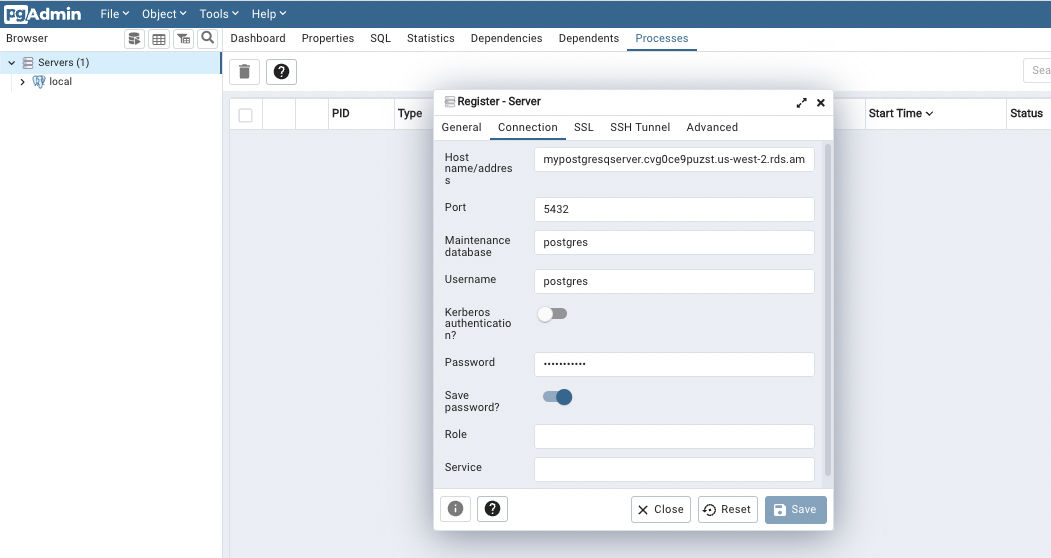
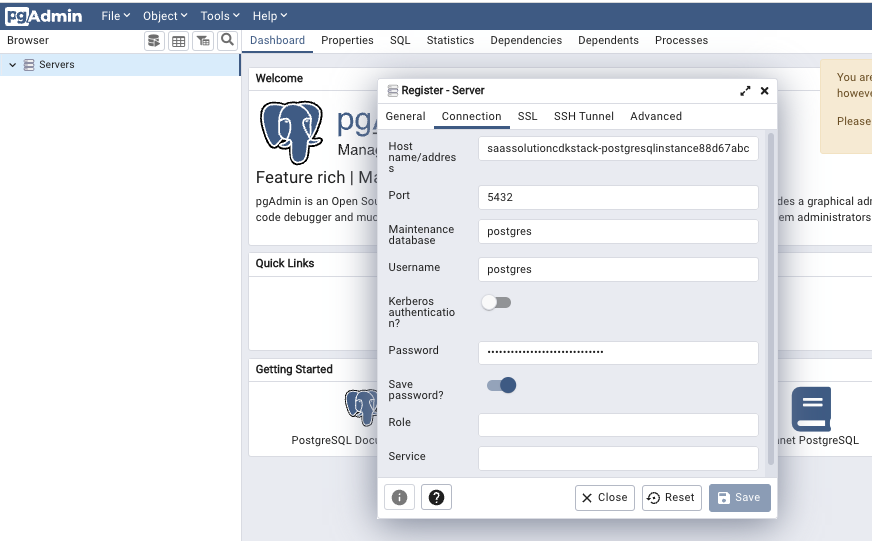
update to CDK for the solution

Changed region(s): [[0.0, 0.0, 1.0, 1.0], [0.2167, 0.207, 0.2477, 0.2366]]

diff --git a/setup/saas-solution-cdk/saas_solution_cdk/saas_solution_cdk_stack.py b/setup/saas-solution-cdk/saas_solution_cdk/saas_solution_cdk_stack.py
@@ -4,8 +4,12 @@ from aws_cdk import (
     aws_rds,
     aws_iam,
     aws_ec2,
-    RemovalPolicy
+    aws_eks,
+    RemovalPolicy, SecretValue,
+    aws_lambda,
+    aws_apigateway as apigw
 )
+
 from constructs import Construct
 cidr="10.10.0.0/16"
 key_name = "my-key-pair"
@@ -19,7 +23,7 @@ class SaasSolutionCdkStack(Stack):
         self.vpc = aws_ec2.Vpc(self, "VPC",
                            max_azs=2,
                            ip_addresses=aws_ec2.IpAddresses.cidr(cidr),
-                           nat_gateways=1,
+                           nat_gateways=2,
                            enable_dns_hostnames=True,
                            enable_dns_support=True,
                            subnet_configuration=[
@@ -33,21 +37,56 @@ class SaasSolutionCdkStack(Stack):
                                    cidr_mask=24) # could be /16 to have more instances, but this is a demo scope.
                            ]
                            )
-        # Create an IAM role for worker groups and kubernetes RBAC configuration
+        
+        postgres = aws_rds.DatabaseInstance(self, "PostgresqlInstance",
+                                database_name="tenantdb",
+                                engine=aws_rds.DatabaseInstanceEngine.postgres(version=aws_rds.PostgresEngineVersion.VER_14_5),
+                                vpc_subnets=aws_ec2.SubnetSelection(subnet_type=aws_ec2.SubnetType.PRIVATE_WITH_EGRESS),
+                                vpc=self.vpc,
+                                port=5432,
+                                removal_policy=RemovalPolicy.DESTROY,
+                                deletion_protection=False,
+                                max_allocated_storage=200,
+                                publicly_accessible=True
+                        )
+        
+             # Create an IAM role for worker groups and kubernetes RBAC configuration
         self.eks_admin_role = aws_iam.Role(self, 'eksAdmin',
                                     assumed_by=aws_iam.ServicePrincipal(service='ec2.amazonaws.com'),
                                                                           role_name='eks-cluster-role', 
                                                                           managed_policies=
                                                                                 [aws_iam.ManagedPolicy.from_aws_managed_policy_name(managed_policy_name='AdministratorAccess')])
+        self.eks_instance_profile = aws_iam.CfnInstanceProfile(self, 'instanceprofile',
+                                                      roles=[self.eks_admin_role.role_name],
+                                                      instance_profile_name='eks-cluster-role')
+                                      
+    
+                            
+
+        cluster = aws_eks.Cluster(self, 'demo-cluster',
+                                  masters_role=self.eks_admin_role,
+                                  vpc=self.vpc,
+                                  default_capacity=2,
+                                  vpc_subnets=[aws_ec2.SubnetSelection(subnet_type=aws_ec2.SubnetType.PRIVATE_WITH_EGRESS)],
+                                  version=aws_eks.KubernetesVersion.V1_24,
+                                  output_cluster_name=True
+                                  )
+
+        sm_role= aws_iam.Role(self,"SageMakerClientRole",
+                 assumed_by=aws_iam.ServicePrincipal("lambda.amazonaws.com"))
+        sm_role.add_managed_policy(aws_iam.ManagedPolicy.from_aws_managed_policy_name("service-role/AWSLambdaBasicExecutionRole"))
+        sm_role.add_managed_policy(aws_iam.ManagedPolicy.from_aws_managed_policy_name("service-role/AWSLambdaVPCAccessExecutionRole"))
+
+        base_lambda = aws_lambda.Function(self, 'SageMakerMapperLambda',
+                                       handler='lambda-handler.handler',
+                                       runtime=aws_lambda.Runtime.PYTHON_3_7,
+                                       code=aws_lambda.Code.from_asset('lambda'),
+                                       role=sm_role)
+
+        base_api = apigw.LambdaRestApi(self, 'ApiGateway',
+                                  rest_api_name='api-Churn-SM',
+                                  handler=base_lambda,
+                                  proxy=False)
         
-        self.postgres = aws_rds.DatabaseInstance(self, "PostgresqlInstance",
-                                database_name="mypostgresqserver",
-                                engine=aws_rds.DatabaseInstanceEngine.postgres(version=aws_rds.PostgresEngineVersion.VER_14_5),
-                                instance_type=aws_ec2.InstanceType.of(aws_ec2.InstanceClass.BURSTABLE2, aws_ec2.InstanceSize.SMALL),
-                                vpc_subnets=aws_ec2.SubnetSelection(subnet_type=aws_ec2.SubnetType.PRIVATE_WITH_EGRESS),
-                                vpc=self.vpc,
-                                port=5436,
-                                removal_policy=RemovalPolicy.DESTROY,
-                                deletion_protection=False,
-                                max_allocated_storage=20
-                        )
+        sagemakerProxy = base_api.root.add_resource('assessChurn')
+        sagemakerProxy.add_method("POST")

diff --git a/setup/saas-solution-cdk/lambda/lambda-handler.py b/setup/saas-solution-cdk/lambda/lambda-handler.py
@@ -1,0 +1,31 @@
+import os
+import io
+import boto3
+import json
+import csv
+
+# grab environment variables
+ENDPOINT_NAME = os.environ['ENDPOINT_NAME']
+runtime= boto3.client('runtime.sagemaker')
+
+def lambda_handler(event, context):
+    try:
+        data = json.loads(json.dumps(event))
+        companyJson = data['data']
+        payload=companyJson['revenu'] + "," + companyJson['employee'] + "," + companyJson['job30'] \
+            + "," + companyJson['job90']
+        response = runtime.invoke_endpoint(EndpointName=ENDPOINT_NAME,
+                                        ContentType='text/csv',
+                                        Body=payload)
+        result = json.loads(response['Body'].read().decode())
+        prediction = result['predictions'][0]['score']
+    
+    except Exception as e:
+        # Send some context about this error to Lambda Logs
+        print(e)
+        raise e
+    
+    return {
+        'statusCode': 200,
+        'body': '{ "payload":' + payload + ',"prediction":' + str(prediction) +'}'
+    }

diff --git a/setup/eks-cdk/eks_cdk/eks_cdk_stack.py b/setup/eks-cdk/eks_cdk/eks_cdk_stack.py
@@ -51,7 +51,7 @@ class EksCdkStack(Stack):
         self.cluster = aws_eks.Cluster(self, 'demo-cluster',
                                   masters_role=self.eks_admin_role,
                                   vpc=self.vpc,
-                                  default_capacity=1,
+                                  default_capacity=2,
                                   vpc_subnets=[aws_ec2.SubnetSelection(subnet_type=aws_ec2.SubnetType.PRIVATE_WITH_EGRESS)],
                                   version=aws_eks.KubernetesVersion.V1_24,
                                   output_cluster_name=True

diff --git a/docs/cdk.md b/docs/cdk.md
@@ -1,0 +1,124 @@
+# Infrastructure as Code
+
+To use an infrastructure as code, we use CDK to create all the needed services and resources. The AWS CDK revolves around a fundamental building block called a construct. These constructs have three abstraction levels:
+
+* L1 – A one-to-one mapping to AWS CloudFormation
+* L2 – An intent-based API
+* L3 – A high-level pattern
+
+The solution CDK is under `setup/saas-solution-cdk` folder. The CDK creates the following elements:
+
+* VPC with private and public subnets
+* RDS Postgresql
+* EKS cluster
+* API Gateway
+* Lambda function
+
+## Deploy
+
+Under `setup/saas-solution-cdk`, start a python environment with AWS and CDK CLIs:
+
+```sh
+./startPythonDocker.sh
+```
+
+In the shell use:
+
+```sh
+cdk synth
+# The first time you run CDK in your account in the selected region do: 
+cdk bootstrap
+cdk deploy
+```
+
+* Clean up
+
+```
+cdk destroy
+```
+
+## Explanations
+
+### VPC
+
+The declaration builds a VPC with 2 public and 2 private subnets:
+
+```python
+vpc = aws_ec2.Vpc(self, "VPC",
+        max_azs=2,
+        ip_addresses=aws_ec2.IpAddresses.cidr(cidr),
+        nat_gateways=2,
+        enable_dns_hostnames=True,
+        enable_dns_support=True,
+        subnet_configuration=[
+            aws_ec2.SubnetConfiguration(
+                name="public",
+                subnet_type=aws_ec2.SubnetType.PUBLIC,
+                cidr_mask=24),
+            aws_ec2.SubnetConfiguration(
+                subnet_type=aws_ec2.SubnetType.PRIVATE_WITH_EGRESS,
+                name="private",
+                cidr_mask=24) # could be /16 to have more instances, but this is a demo scope.
+        ]
+        )
+```
+
+The result:
+
+![](./images/vpc-subnets.png)
+
+There are also two NAT gateways for outbound traffic and one Internet Gateway attached to the VPC.
+
+Five route tables are created, one for each subnet: for public subnets each route defines all internet inbound traffic to go to Internet Gateway, local on CICD defines (10.10.0.0/16), use local network, and outbound traffic from private subnets goes to NAT gateways. 
+
+### RDS CDK
+
+Once the VPC is created, we want the database to be in private network, but accessible in public so we can use pgadmin to see the schema. This is for development purpose.
+
+The declaration looks like:
+
+```python
+postgres = aws_rds.DatabaseInstance(self, "PostgresqlInstance",
+                                database_name="tenantdb",
+                                engine=aws_rds.DatabaseInstanceEngine.postgres(version=aws_rds.PostgresEngineVersion.VER_14_5),
+                                vpc_subnets=aws_ec2.SubnetSelection(subnet_type=aws_ec2.SubnetType.PRIVATE_WITH_EGRESS),
+                                vpc=self.vpc,
+                                port=5432,
+                                removal_policy=RemovalPolicy.DESTROY,
+                                deletion_protection=False,
+                                max_allocated_storage=200,
+                                publicly_accessible=True
+                        )
+```
+
+The cloudformation will create a secret in AWS Secret Manager with the credential, hostname... to access postgres database.
+
+And the security group needs to be modified to add inbound rules for port 5432 from any IP v4 addresses.
+
+![](./images/rds-connectivity.png)
+
+[Connection setup documentation](https://docs.aws.amazon.com/AmazonRDS/latest/UserGuide/CHAP_GettingStarted.CreatingConnecting.PostgreSQL.html)
+
+### EKS cluster
+
+The declaration to create the EKS cluster in the same VPC is:
+
+```python
+cluster = aws_eks.Cluster(self, 'demo-cluster',
+                    masters_role=self.eks_admin_role,
+                    vpc=self.vpc,
+                    default_capacity=2,
+                    vpc_subnets=[aws_ec2.SubnetSelection(subnet_type=aws_ec2.SubnetType.PRIVATE_WITH_EGRESS)],
+                    version=aws_eks.KubernetesVersion.V1_24,
+                    output_cluster_name=True
+                    )
+```
+
+It should create a CloudFormation stack named EksCdkStack, and then VPC, public and private subnets, Internet Gateway, Routes, NAT gateway, IAM role resources.
+
+
+## Deeper dive
+
+* [See python CDK API ](https://docs.aws.amazon.com/cdk/api/v2/python/index.html)
+
+

diff --git a/docs/eks.md b/docs/eks.md
@@ -14,45 +14,6 @@ It is integrated with VPC for isolation, IAM for authentication, ELB for load di
 * It supports EC2 to deploy worker nodes or Fargate to deploy serverless containers or [on to AWS Outposts](../../infra/#aws-outposts).
 * Fully compatible with other CNSF kubernetes
 
-## Create a cluster with CDK
 
-To use an infrastructure as code, we use CDK to create a EKS cluster. The AWS CDK revolves around a fundamental building block called a construct. These constructs have three abstraction levels:
-
-* L1 – A one-to-one mapping to AWS CloudFormation
-* L2 – An intent-based API
-* L3 – A high-level pattern
-
-Under `setup/eks-cdk`, start a python environment with AWS and CDK CLIs:
-
-```sh
-./startPythonDocker.sh
-```
-
-In the shell use:
-
-```sh
-cdk synth
-# may be do 
-cdk bootstrap
-cdk deploy
-```
-
-Outputs:
-```sh
-EksCdkStack.democlusterClusterName938388A9 = democlusterE73BD733-3cfbbaf2cea645f3bc9f8e1795f7c400
-EksCdkStack.democlusterConfigCommandF40E856D = aws eks update-kubeconfig --name democlusterE73BD733-3cfbbaf2cea645f3bc9f8e1795f7c400 --region us-west-2 --role-arn arn:aws:iam::403993201276:role/eks-cluster-role
-EksCdkStack.democlusterGetTokenCommand1B3872DA = aws eks get-token --cluster-name democlusterE73BD733-3cfbbaf2cea645f3bc9f8e1795f7c400 --region us-west-2 --role-arn arn:aws:iam::403993201276:role/eks-cluster-role
-Stack ARN:
-arn:aws:cloudformation:us-west-2:4....6:stack/EksCdkStack/391745e0-86e6-11ed-9ad9-0230bf738531
-
-✨  Total time: 1501.45s
-```
-
-It should create a CloudFormation stack named EksCdkStack, and then VPC, public and private subnets, Internet Gateway, Routes, NAT gateway, IAM role resources.
-
-![](./images/eks-cf-resources.png)
-
-
-[See python CDK API ](https://docs.aws.amazon.com/cdk/api/v2/python/index.html)
 
 
